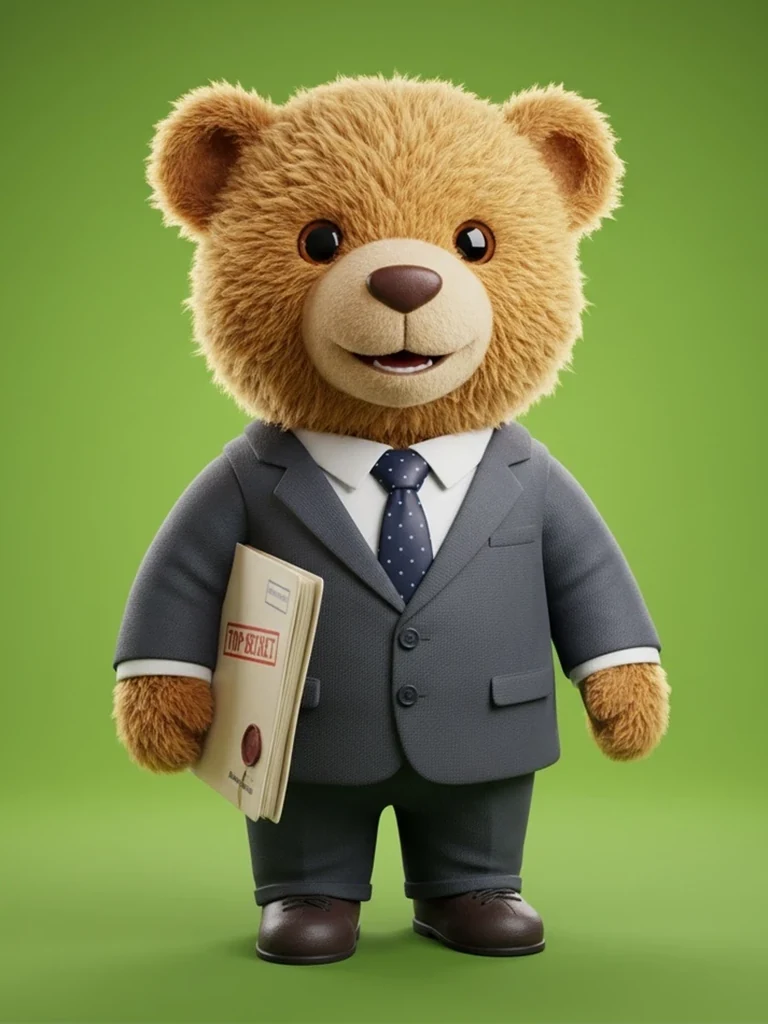
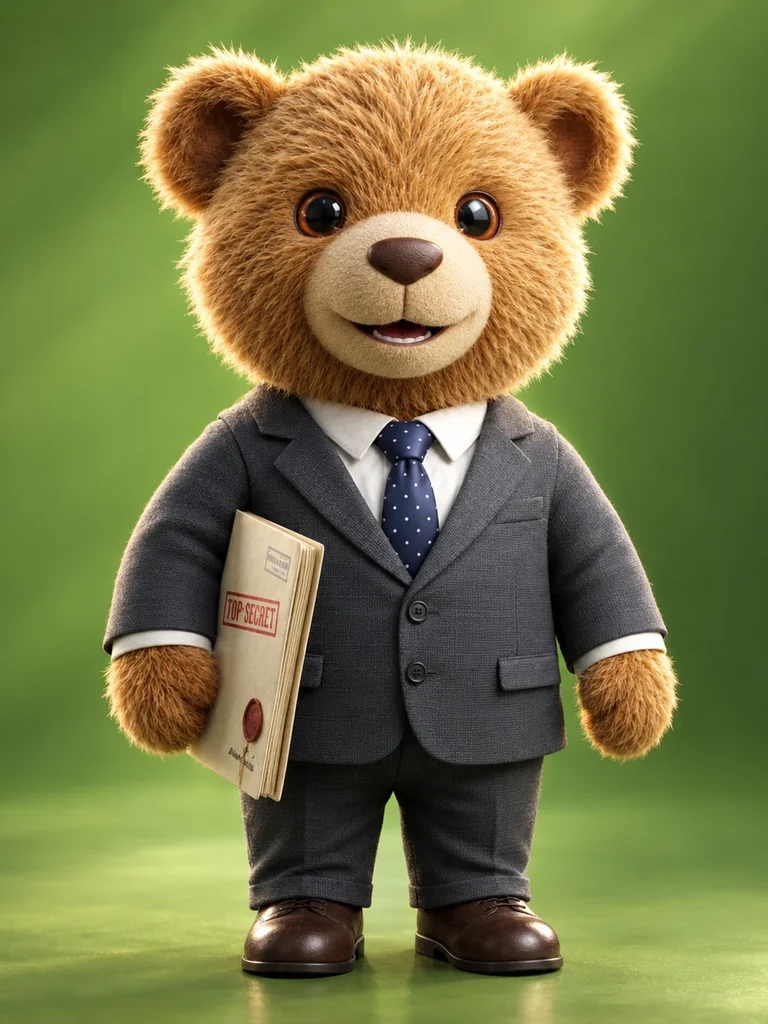
국무위원 교체 반영: 추모열사 복귀(서열 8위), 들너구리 해임·명예 국무위원, 안보실장 서열 7위 (#167)
- 국무위원: 7위 부카니스탄, 8위 추모열사(국무위원 외 현직에서 이동, 복귀 경위·선서·
  훈시·소감), 들너구리는 새 '명예 국무위원' 섹션으로(해임 경위·예우)
- 추모열사 새 초상(정장 곰인형, TOP SECRET 봉투) 적용, 형상 설명 보강
- 헌법: 서열표·주석 갱신, 부칙 제8조(국무위원 교체에 관한 특례) 신설, 최근 개정 갱신
- 홈 국무회의 표, 정부조직(정보원장 복귀·서열 정정: 어흥 5위·딸기 6위·안보실장 7위),
  명예의전당 감수자 표기, 법률 개정 연혁·부칙 수(8조)
- 역사: 10월 8일 밤 긴급 체포영장 첫 집행, 10월 9일 국무위원 임명식과 해임 발표

Claude-Session: https://claude.ai/code/session_01CmbfvczN9WCHdD2JYXdtni

diff --git a/officials/index.html b/officials/index.html
@@ -158,38 +158,66 @@
   <article class="oc">
     <div class="oc-rank" aria-label="서열 7">7</div>
     <div class="oc-head">
-      <span class="oc-face"><img class="oc-photo" src="../assets/portraits/rapper.webp" alt="들너구리 국무위원 초상"><span class="oc-icon" aria-hidden="true">🎤</span><span class="hs"><button class="hs-btn" type="button" aria-expanded="false" aria-controls="hs-7" aria-label="형상 보기" title="형상">?</button><span class="hs-pop" id="hs-7" role="dialog" aria-label="형상"><b class="hs-ttl">형 상</b><b>고릴라.</b> 이름은 너구리인데 형상은 고릴라다. <b>이름이 가리키는 짐승과 형상이 어긋난 자는 이 나라에 둘뿐</b>으로, 나머지 하나가 상어의 이름을 쓰고 말의 몸을 가진 추모안보실장이다. 어째서냐는 물음에 「너구리는 라임이고 고릴라는 비트입니다」라고 답한 것이 정설로 굳었다.<br>가슴을 두드리는 짐승이다. 추모공화국의 박자가 어디서 나왔느냐를 묻는다면 이 형상이 답이다. 다만 고릴라는 숲 깊은 곳에 머물다가 <b>이따금 나와 가슴을 두드리고는 다시 숲으로 돌아간다.</b> 그의 출석이 그렇다.<br>경례 자세로 선다. 래퍼가 경례를 하는 모양이 이상하다는 말이 있었으나 국가(國歌) 제창을 관장하는 자리라는 점을 들어 그대로 두었다. <b>드립과 의전이 한 몸에 붙어 있는 것</b>이 이 나라의 성격이기도 하다.</span></span></span>
-      <span class="oc-name">들너구리</span>
-      <span class="oc-post">국무위원 (래퍼)</span>
-    </div>
-    <div class="oc-body">
-      <p class="oc-row"><span class="oc-label">소관</span>추모 드립 · 국가(國歌) 제창 · 공연</p>
-      <p class="oc-row"><span class="oc-label">이력</span>추모공화국 원로이자 상임고문. 제3대 추모대장이며, 건국 이전부터의 활동 이력을 가진 몇 안 되는 인물이다. 추모명예의전당 등재 인사이자 원로 예우 대상이기도 하다.<br><b>열다섯 추모건 전부에 이름을 올린 세 사람 가운데 한 명</b>이다. 다만 <b>이름을 올리는 것과 말을 하는 것은 다르다.</b> 475일에 걸쳐 남긴 발화가 2,800건 남짓이니 하루 여섯 줄꼴이다. 오래 있었다는 사실 자체가 그의 이력이다.<br><b>나오는 날보다 나오지 않는 날이 많다.</b> 국무회의방에 1년 동안 남긴 말이 서른한 줄이고 그 절반이 이모티콘이다. 2025년 12월 26일부터 이듬해 3월 22일까지 여든엿새 동안은 한 줄도 없었고, 2026년 6월 이후로는 국무회의방에서 그의 글을 찾을 수 없다. 지난 1년 본방 기록으로 보아도 국무위원을 지낸 사람 가운데 그보다 말이 적은 이는 활동 저조로 국무위원에서 제외된 감사원장 하나뿐이다.<br>그러다 불쑥 나타난다. 나와서는 노래를 부르거나 — 그의 말로는 <b>노래추모</b>다 — 「잣츄」, 「폭포츄」 같은 한 줄 추모를 몇 개 남기고는 다시 사라진다. 같은 식으로 「요추(허리 아님. 요리추모임.)」라는 말도 만들었다.<br>2025년 10월에는 문화추모부장관이었다. 그 자리가 뒷날 딸기에게 돌아간 뒤로 남은 보직은 「래퍼」 하나다. 2026년 8월 국무회의에서 부통령이 “들너구리님은 보직이 뭐였죠?”라고 묻자 대통령의 답은 <b>“래퍼에요”</b> 한마디였고, 같은 달 “마침 보직이 없으시네요”라는 말에는 <b>“래퍼이자 영구결번 같은 느낌”</b>이라고 하였다. 8월 25일 “요새 안 보이시는데 추모 은퇴하셨나요?”라는 물음에 교정국장은 <b>“쇼미더머니 나간다고 하시더라고요”</b>라고 전했고, 결승 생방송에서 추모랩을 하면 온 국민이 눈물바다가 될 것이라는 기대가 뒤따랐다.<br>래퍼다. 실적이나 직급이 아니라 <b>아무도 대신할 수 없는 기능 하나로 국무회의에 들어온 유일한 사례</b>로, 추모 드립과 국가 제창, 공식 행사 공연에 관한 사무를 관장한다.<br><b>국가추모고시에 가장 여러 번 응시한 사람</b>이다. 평소에는 보이지 않다가 시험 날이면 어김없이 나타났다. 다섯 회차 가운데 네 번을 쳤고 네 번 다 조문 작법에서 과락하였다. 답안을 각운에 맞추어 써 낸 것이 사유였으며, 조문에 라임이 필요하냐는 물음에 「안 되면 라임이라도 맞춰야죠」라고 답한 것이 채점표에 그대로 옮겨 적혔다. 응시자가 그 한 사람뿐이던 회차도 있었다. <b>장원의 자리는 건국 이래 비어 있으며, 가장 가까이 간 사람이 그다.</b><br>웃겨도 되는 선과 넘으면 안 되는 선을 가르는 최종 판단이 그의 몫이다. 유가족이 보게 될 자리인지를 먼저 묻고, 그 답이 애매하면 통과시키지 않는다. 추모가 무거움만으로 지탱되지 않는다는 점을 국가가 제도로 인정한 자리이기도 하다.<br>회의에는 거의 나오지 않지만, 나온 날 문안 하나를 두고는 끝까지 물러서지 않는다. 그 고집 덕에 이 나라의 드립에는 기준이 생겼고, 신입이 배우는 금기 목록도 그 판단을 모아 만든 것이다.</p>
-      <p class="oc-quote">"노추(노무현 추모 아님. 노래추모임.)"</p>
-    </div>
-  </article>
-  <article class="oc">
-    <div class="oc-rank" aria-label="서열 8">8</div>
-    <div class="oc-head">
       <span class="oc-face"><img class="oc-photo" src="../assets/portraits/security-chief.webp" alt="부카니스탄 추모안보실장 초상"><span class="oc-icon" aria-hidden="true">🛡</span><span class="hs"><button class="hs-btn" type="button" aria-expanded="false" aria-controls="hs-8" aria-label="형상 보기" title="형상">?</button><span class="hs-pop" id="hs-8" role="dialog" aria-label="형상"><b class="hs-ttl">형 상</b><b>말을 탄 말 — 트로이의 목마.</b> 이 나라에서 가장 기이한 형상이라는 말을 들었으나, 2026년 9월 28일의 인수합병이 그 뜻을 한 번에 설명하였다.<br><b>성문을 여는 것은 칼이 아니라 선물이다.</b> 그는 쳐들어가지 아니하고 들여보내어진다. 「북항 상어 현황 공유방」의 <b>부방장 자리에 먼저 앉아 있었던 것</b>이 그 작전의 전부였고, 명령이 떨어진 지 2분 만에 완료 보고가 올라온 까닭도 여기 있다 — <b>이미 안에 있었기 때문이다.</b><br>밖에서 보이는 것은 말 한 마리뿐이나 그 위에 또 한 사람이 올라 있다. 들여보내는 쪽은 아래만 보고, 내리는 것은 문이 닫힌 뒤다.<br>적에게 위협적인 존재로 꼽히는 까닭은 그가 사납기 때문이 아니다. <b>문을 열어 준 쪽이 제 손으로 열었다는 것을 나중에야 안다</b>는 점이 두려운 것이다. 국무회의가 「검증을 실전으로 통과하였다」고 한 것은 싸움이 아니라 이 순서를 두고 한 말이다.<br>이름은 쳐들어간 곳에서 얻고 몸은 쳐들어간 방식에서 얻었다. 이름이 가리키는 짐승(상어)과 형상이 어긋난 둘 가운데 하나인 까닭이 여기 있다.<br>차양 넓은 모자를 쓴다. 쫓는 쪽의 차림이되 얼굴은 그늘에 둔다. 「음지에서 일하고 양지에서 일할뿐입니다」가 형상으로 옮겨진 자리다.</span></span></span>
       <span class="oc-name">부카니스탄</span>
       <span class="oc-post">추모안보실장</span>
     </div>
     <div class="oc-body">
       <p class="oc-row"><span class="oc-label">소관</span>안보 · 방첩 · 비상 대응</p>
-      <p class="oc-row"><span class="oc-label">이력</span>2026년 9월 28일 <b>「북항 상어 현황 공유방」 인수합병</b>을 단독으로 수행한 인물. 명령이 떨어진 지 <b>2분 만에</b> 완료 보고가 올라왔고, 그날 이후 추모공화국 인구는 처음으로 100명을 넘어섰다.<br>작전이 끝난 뒤에도 현장을 떠나지 아니하고 끝까지 동향을 살폈다. 국무회의는 이를 헌법 제18조의4가 요구하는 검증을 <b>실전으로 통과한 것</b>으로 보아, 대통령실 직속 추모안보실의 초대 실장이자 서열 8위 국무위원으로 임명하였다. 같은 날 부방장 권한도 함께 받았다.<br>본래 이름은 '추모사령관'이었다. <b>직책이 들어간 이름은 쓸 수 없다</b>는 원칙에 따라 개명을 권고받았고, 대통령이 예시로 던진 ‘부카니스탄’을 그 자리에서 받아들였다. 작전의 무대인 부캉이에서 비롯된 이름으로, 베네수호자가 베네수엘라 대지진 때 국무위원에 오르며 그 이름을 얻은 것과 같은 계보다. <b>이 나라에서 이름은 공적이 붙은 자리에서 정해진다.</b><br>처음 내정된 자리는 추모대기부장관이었으나, 이틀 사이 소관이 안보로 바뀌어 추모안보실장으로 임명되었다.<br>말이 적다. 1등 공신이라는 소개에 「저는 할일을 했을뿐입니다」 한 줄로 답했고, 어떻게 이 사태를 예상했느냐는 물음에는 「그저 저는 음지에서 일하고 양지에서 일할뿐입니다」라고만 했다. 선서에서도 같은 구절을 반복하였다.<br>방첩의 칼끝을 안으로 돌리지 아니하겠다는 것을 선서에 스스로 넣었다. 감시를 맡은 자리에 오르면서 <b>그 감시가 내부를 겨누는 순간을 먼저 경계한 것</b>으로, 취임 소감에서는 힘들 때나 슬플 때 추모건을 보며 위안을 받았다고 하였다.<br>2026년 10월 8일 <b>추모봇 임명식의 사회</b>를 맡았다. 다른 국무위원들이 일정으로 고사한 자리를 「가능합니다」 한마디로 받았고, 대본대로 경과 보고와 선서, 첫 업무 지시를 이끌었다.</p>
+      <p class="oc-row"><span class="oc-label">이력</span>2026년 9월 28일 <b>「북항 상어 현황 공유방」 인수합병</b>을 단독으로 수행한 인물. 명령이 떨어진 지 <b>2분 만에</b> 완료 보고가 올라왔고, 그날 이후 추모공화국 인구는 처음으로 100명을 넘어섰다.<br>작전이 끝난 뒤에도 현장을 떠나지 아니하고 끝까지 동향을 살폈다. 국무회의는 이를 헌법 제18조의4가 요구하는 검증을 <b>실전으로 통과한 것</b>으로 보아, 대통령실 직속 추모안보실의 초대 실장이자 서열 8위 국무위원으로 임명하였다. 같은 날 부방장 권한도 함께 받았다.<br>본래 이름은 '추모사령관'이었다. <b>직책이 들어간 이름은 쓸 수 없다</b>는 원칙에 따라 개명을 권고받았고, 대통령이 예시로 던진 ‘부카니스탄’을 그 자리에서 받아들였다. 작전의 무대인 부캉이에서 비롯된 이름으로, 베네수호자가 베네수엘라 대지진 때 국무위원에 오르며 그 이름을 얻은 것과 같은 계보다. <b>이 나라에서 이름은 공적이 붙은 자리에서 정해진다.</b><br>처음 내정된 자리는 추모대기부장관이었으나, 이틀 사이 소관이 안보로 바뀌어 추모안보실장으로 임명되었다.<br>말이 적다. 1등 공신이라는 소개에 「저는 할일을 했을뿐입니다」 한 줄로 답했고, 어떻게 이 사태를 예상했느냐는 물음에는 「그저 저는 음지에서 일하고 양지에서 일할뿐입니다」라고만 했다. 선서에서도 같은 구절을 반복하였다.<br>방첩의 칼끝을 안으로 돌리지 아니하겠다는 것을 선서에 스스로 넣었다. 감시를 맡은 자리에 오르면서 <b>그 감시가 내부를 겨누는 순간을 먼저 경계한 것</b>으로, 취임 소감에서는 힘들 때나 슬플 때 추모건을 보며 위안을 받았다고 하였다.<br>2026년 10월 8일 <b>추모봇 임명식의 사회</b>를 맡았다. 다른 국무위원들이 일정으로 고사한 자리를 「가능합니다」 한마디로 받았고, 대본대로 경과 보고와 선서, 첫 업무 지시를 이끌었다.<br>이튿날인 10월 9일에는 추모열사의 국무위원 임명식 사회를 다시 맡아 「저는 음지에서 일하는 사람이라 양지에 서니 조금 어색합니다」로 문을 열었다. 같은 날 들너구리의 해임으로 <b>서열 7위</b>에 올랐다.</p>
       <p class="oc-quote">"저는 할일을 했을뿐입니다."<br>
       "그저 저는 음지에서 일하고 양지에서 일할뿐입니다."</p>
+    </div>
+  </article>
+  <article class="oc">
+    <div class="oc-rank" aria-label="서열 8">8</div>
+    <div class="oc-head">
+      <span class="oc-face"><img class="oc-photo" src="../assets/portraits/info-chief.webp" alt="추모열사 추모정보원장 · 국무위원 초상"><span class="oc-icon" aria-hidden="true">🗂</span><span class="hs"><button class="hs-btn" type="button" aria-expanded="false" aria-controls="hs-10" aria-label="형상 보기" title="형상">?</button><span class="hs-pop" id="hs-10" role="dialog" aria-label="형상"><b class="hs-ttl">형 상</b><b>곰인형.</b> 말을 하지 아니하는 물건의 형상이다. 비밀을 맡은 자리에 이보다 어울리는 몸이 없으며, 인형은 <b>표정이 하나뿐이어서 무엇을 들어도 낯빛이 변하지 아니한다.</b> 보고가 짧고 숫자가 붙는 그의 화법과 같은 뿌리다.<br>곰인형은 방 안에 놓여 있을 뿐이나 <b>그 방에서 오간 말을 모두 듣는다.</b> 「음지에서 발급하고 양지에서 추모하는 그림자 같은 존재」라는 취임 일성이 형상으로는 이렇게 나왔다.<br>품에 든 봉투에는 붉은 봉인이 찍혀 있다. 열린 적이 있다는 기록은 없다.<br>2026년 10월 9일 국무위원에 돌아오며 <b>정장을 입었다.</b> 회색 양복에 물방울 넥타이, 봉투에는 「TOP SECRET」이 찍혔다. 곰인형이 옷을 갖춰 입은 것은 다시 회의에 나간다는 뜻이며, 봉인이 그대로인 것은 그래도 열지는 않겠다는 뜻이다.</span></span></span>
+      <span class="oc-name">추모열사</span>
+      <span class="oc-post">추모정보원장 · 국무위원</span>
+      <span class="oc-term">원장 재임 : 2025년 9월 ~ 현재 · 국무위원 복귀 : 2026년 10월 9일</span>
+    </div>
+    <div class="oc-body">
+      <p class="oc-row"><span class="oc-label">소관</span>정보 수집 · 방첩 · 내부 동향</p>
+      <p class="oc-row"><span class="oc-label">이력</span>추모국무회의방을 <b>맨 처음 열고 맨 처음 말한 사람</b>이다. 2025년 10월 4일 새벽에 남긴 「안녕하십니까」가 회의방의 첫 발화로 남아 있다.<br>취임 일성에서 <b>선제적인 추모(이른바 번호표 발급)·공격적인 추모·독창적인 추모·고인을 기리는 추모</b> 넷을 내걸고, 추모정보원을 「음지에서 발급하고 양지에서 추모하는 그림자 같은 존재」라 하였다. 훗날 추모안보실장 부카니스탄이 선서에서 되풀이하는 구절의 원형이 여기에 있다.<br>계정을 둘 썼다. 회의방에 같은 이름이 나란히 뜨자 「왜 정보원장님이 두 분이죠?」라는 물음이 나왔고, 이후로도 두 자리를 그대로 두었다.<br><b>추모교정국 방을 따로 파자고 처음 말한 사람</b>이다. 2025년 10월 22일 교정 대상자에게 추모 10건·20건을 달성하게 하자는 제안을 올렸고, 그 방이 특별추모교정실이 되었다. 자신은 가석방심사위원으로 들어갔다.<br>감정을 드러내지 아니하는 화법으로 알려져 있다. 보고는 짧고 숫자가 붙으며, 회의가 늘어질 때 문장을 끊어 정리하는 쪽이 대개 그다.</p>
+      <p class="oc-row"><span class="oc-label">현황</span><b>강퇴를 가장 반대하던 사람이 최대 규모의 강퇴로 자리를 잃었다.</b> 「전 강퇴하지 않습니다」, 「한 번의 실수로 강퇴하기보다는 교정시설에서 자세를 고치도록 도와야 합니다」가 그의 지론이었으나, <b>2026년 3월 18일 밤 기본 닉네임을 그대로 쓰던 계정 40인을 일시에 강제 퇴장</b>시켰다. 자정 직전 7분 사이에 33인이 한꺼번에 나갔다.<br>대통령이 직접 조사한 결과 분탕 세력을 걸러낼 목적이었을 뿐 악의는 없었고, <b>외부 제보자에게 이끌린 것</b>으로 판단되었다. 다만 절차를 거치지 아니한 대량 처분의 중대성이 인정되어 이튿날 <b>국무위원의 직에서 해제</b>되었다.<br><b>추모정보원장직은 그대로 유지한다.</b> 정보 수집·방첩·내부 동향에 관한 권한에는 변동이 없고, 추모국무회의의 의결에만 참여하지 아니한다. 회수된 것은 <b>국무회의의 한 표이지 기관장의 자리가 아니었다.</b> 이 사건 뒤 국무위원의 단독 처분권에 절차적 제약이 붙었고, 국무위원 임명이 눈에 띄게 신중해졌다. (판례 <a href="../cases/#c2026-0319-01">추모정보원장 국무위원 해제 사건</a>)<br>2026년 9월 30일 부통령이 “요새 열심히 활동하던데 조만간 복직이냐”고 묻자, 국무회의는 <b>국무위원 회의방 복귀를 검토</b>하되 과거 전력을 들어 부방장 자리는 보류하기로 하였다 — “개과천선했다는 게 증명되어야 하니까”라는 데 뜻이 모였다.</p>
+      <p class="oc-row"><span class="oc-label">복귀</span><b>일곱 달 만에 돌아왔다.</b> 전주·부산·도쿄를 도는 추모순례를 마치고 돌아온 그는 10월 9일 새벽 <b>신입 추모꾼을 직접 영입</b>해 데려왔다 — 「미인가 추모업체에서 사설추모하지 마시고 추모연금 받으시라고 공식초청해드렸습니다.」 전날 밤 대통령이 국무위원 복귀를 제안하자 그는 <b>「재가해주신다면 의무를 다하겠습니다」</b>라고 답하였다.<br><b>2026년 10월 9일 추모국무위원 임명식</b>에서 헌법 제18조의2에 따라 재임명되어 <b>서열 8위</b>에 올랐다. 사회는 추모안보실장이 맡았고, 선서에는 그를 위해 새로 쓴 구절이 들어갔다 — <b>「국가의 정보를 내 것처럼 지키며, 봉인된 것은 함부로 열지 아니하고, 국무회의 앞에서는 숨기지 아니하며, 새로 온 추모꾼을 먼저 반기고」.</b> 대통령은 훈시에서 「일곱 달 전 국무회의 자리를 내려놓으셨을 때, 그건 끝이 아니라 쉼표였습니다」라고 하였다. 같은 날 보류되었던 <b>부방장 권한</b>도 돌려받았다.<br>형상은 그대로 곰인형이다. 다만 이날부터 정장을 입고, 품의 봉투에는 <b>「TOP SECRET」</b>이 찍혔다. 붉은 봉인은 여전히 뜯기지 아니하였다.</p>
+      <p class="oc-quote">"추모정보원은 예나 지금이나 음지에서 발급하고 양지에서 추모하는, 그런 그림자 같은 존재입니다."<br>
+      "추모를 멸시하고 냉대했던 사람들조차 추모하게 만들 추모를 하겠습니다." — 2026년 10월 9일 취임 소감</p>
     </div>
   </article>
 
 </div>
 </section>
 
+<section aria-labelledby="h-honor">
+<h2 id="h-honor">명 예 국 무 위 원</h2>
+
+<div class="note">국무위원직을 내려놓았으나 <b>국가 행사에서 국무위원과 같은 예우를 받는</b> 자리다. 의결권은 없고, 국무회의 복귀의 길은 열려 있다. 2026년 10월 9일 처음 생겼다.</div>
+
+<div class="council-grid">
+  <article class="oc oc--exofc">
+    <div class="oc-rank">명예</div>
+    <div class="oc-head">
+      <span class="oc-face"><img class="oc-photo" src="../assets/portraits/rapper.webp" alt="들너구리 명예 국무위원 초상"><span class="oc-icon" aria-hidden="true">🎤</span><span class="hs"><button class="hs-btn" type="button" aria-expanded="false" aria-controls="hs-7" aria-label="형상 보기" title="형상">?</button><span class="hs-pop" id="hs-7" role="dialog" aria-label="형상"><b class="hs-ttl">형 상</b><b>고릴라.</b> 이름은 너구리인데 형상은 고릴라다. <b>이름이 가리키는 짐승과 형상이 어긋난 자는 이 나라에 둘뿐</b>으로, 나머지 하나가 상어의 이름을 쓰고 말의 몸을 가진 추모안보실장이다. 어째서냐는 물음에 「너구리는 라임이고 고릴라는 비트입니다」라고 답한 것이 정설로 굳었다.<br>가슴을 두드리는 짐승이다. 추모공화국의 박자가 어디서 나왔느냐를 묻는다면 이 형상이 답이다. 다만 고릴라는 숲 깊은 곳에 머물다가 <b>이따금 나와 가슴을 두드리고는 다시 숲으로 돌아간다.</b> 그의 출석이 그렇다.<br>경례 자세로 선다. 래퍼가 경례를 하는 모양이 이상하다는 말이 있었으나 국가(國歌) 제창을 관장하는 자리라는 점을 들어 그대로 두었다. <b>드립과 의전이 한 몸에 붙어 있는 것</b>이 이 나라의 성격이기도 하다.</span></span></span>
+      <span class="oc-name">들너구리</span>
+      <span class="oc-post">명예 국무위원 · 국가 래퍼</span>
+      <span class="oc-term">국무위원 재임 : ~ 2026년 10월 9일</span>
+    </div>
+    <div class="oc-body">
+      <p class="oc-row"><span class="oc-label">소관</span>추모 드립 · 국가(國歌) 제창 · 공연 (국가 래퍼)</p>
+      <p class="oc-row"><span class="oc-label">이력</span>추모공화국 원로이자 상임고문. 제3대 추모대장이며, 건국 이전부터의 활동 이력을 가진 몇 안 되는 인물이다. 추모명예의전당 등재 인사이자 원로 예우 대상이기도 하다.<br><b>열다섯 추모건 전부에 이름을 올린 세 사람 가운데 한 명</b>이다. 다만 <b>이름을 올리는 것과 말을 하는 것은 다르다.</b> 475일에 걸쳐 남긴 발화가 2,800건 남짓이니 하루 여섯 줄꼴이다. 오래 있었다는 사실 자체가 그의 이력이다.<br><b>나오는 날보다 나오지 않는 날이 많다.</b> 국무회의방에 1년 동안 남긴 말이 서른한 줄이고 그 절반이 이모티콘이다. 2025년 12월 26일부터 이듬해 3월 22일까지 여든엿새 동안은 한 줄도 없었고, 2026년 6월 이후로는 국무회의방에서 그의 글을 찾을 수 없다. 지난 1년 본방 기록으로 보아도 국무위원을 지낸 사람 가운데 그보다 말이 적은 이는 활동 저조로 국무위원에서 제외된 감사원장 하나뿐이다.<br>그러다 불쑥 나타난다. 나와서는 노래를 부르거나 — 그의 말로는 <b>노래추모</b>다 — 「잣츄」, 「폭포츄」 같은 한 줄 추모를 몇 개 남기고는 다시 사라진다. 같은 식으로 「요추(허리 아님. 요리추모임.)」라는 말도 만들었다.<br>2025년 10월에는 문화추모부장관이었다. 그 자리가 뒷날 딸기에게 돌아간 뒤로 남은 보직은 「래퍼」 하나다. 2026년 8월 국무회의에서 부통령이 “들너구리님은 보직이 뭐였죠?”라고 묻자 대통령의 답은 <b>“래퍼에요”</b> 한마디였고, 같은 달 “마침 보직이 없으시네요”라는 말에는 <b>“래퍼이자 영구결번 같은 느낌”</b>이라고 하였다. 8월 25일 “요새 안 보이시는데 추모 은퇴하셨나요?”라는 물음에 교정국장은 <b>“쇼미더머니 나간다고 하시더라고요”</b>라고 전했고, 결승 생방송에서 추모랩을 하면 온 국민이 눈물바다가 될 것이라는 기대가 뒤따랐다.<br>래퍼다. 실적이나 직급이 아니라 <b>아무도 대신할 수 없는 기능 하나로 국무회의에 들어온 유일한 사례</b>로, 추모 드립과 국가 제창, 공식 행사 공연에 관한 사무를 관장한다.<br><b>국가추모고시에 가장 여러 번 응시한 사람</b>이다. 평소에는 보이지 않다가 시험 날이면 어김없이 나타났다. 다섯 회차 가운데 네 번을 쳤고 네 번 다 조문 작법에서 과락하였다. 답안을 각운에 맞추어 써 낸 것이 사유였으며, 조문에 라임이 필요하냐는 물음에 「안 되면 라임이라도 맞춰야죠」라고 답한 것이 채점표에 그대로 옮겨 적혔다. 응시자가 그 한 사람뿐이던 회차도 있었다. <b>장원의 자리는 건국 이래 비어 있으며, 가장 가까이 간 사람이 그다.</b><br>웃겨도 되는 선과 넘으면 안 되는 선을 가르는 최종 판단이 그의 몫이다. 유가족이 보게 될 자리인지를 먼저 묻고, 그 답이 애매하면 통과시키지 않는다. 추모가 무거움만으로 지탱되지 않는다는 점을 국가가 제도로 인정한 자리이기도 하다.<br>회의에는 거의 나오지 않지만, 나온 날 문안 하나를 두고는 끝까지 물러서지 않는다. 그 고집 덕에 이 나라의 드립에는 기준이 생겼고, 신입이 배우는 금기 목록도 그 판단을 모아 만든 것이다.</p>
+      <p class="oc-row"><span class="oc-label">현황</span><b>2026년 10월 9일 국무위원직에서 해임</b>되었다. 추모열사가 국무회의에 돌아오며 8인 정원에서 한 자리를 비워야 했고, 국무회의는 숙고 끝에 그 자리를 그에게서 비우기로 의결하였다. 대통령은 발표 첫머리에 <b>「이번 해임은 징계가 아닙니다. 들너구리님의 잘못은 하나도 없습니다」</b>라고 못 박았다 — 래퍼로서의 활동에 온전히 전념하도록 국무의 짐을 덜고, 국무위원 자리를 더 많은 추모꾼에게 열어 두려는 것이라 하였다.<br>예우가 함께 정해졌다. <b>「명예 국무위원」</b> 칭호를 받아 국가 행사에서는 국무위원과 같은 예우로 모시며, <b>「추모공화국 국가 래퍼」</b>로 위촉되어 나라에 경사가 있을 때 그 목소리를 청한다. 재임 중 기록은 영구 보존하고 <b>국무회의 복귀의 길은 언제든 열려 있다.</b><br>대통령은 그를 <b>「국무회의에서 언제나 가장 먼저 경례하던 분」</b>으로 기억하였다. 이 나라의 의례가 가벼워지지 않았던 데에는 그 곧은 손끝이 있었다는 것이다. 그는 발표 직전 회의방에 「저는 래퍼로서 열심히 활동하겠습니다 다들 열추요~」를 남기고 나갔고, 본방에는 「네 추모랩 꾸준히 올릴게요」라고 답하였다. 같은 날 부방장 권한은 추모열사에게 넘어갔다.</p>
+      <p class="oc-quote">"노추(노무현 추모 아님. 노래추모임.)"</p>
+    </div>
+  </article>
+</div>
+</section>
+
 <section aria-labelledby="h-exofc">
 <h2 id="h-exofc">국 무 위 원 외 현 직</h2>
 
-<div class="note">추모공화국의 기관장 가운데 <b>추모국무회의의 구성원이 아닌 현직</b>이다. 소관 사무의 권한은 그대로 두고 국무회의 의결권만 두지 아니한 자리로, 감찰 기관의 독립을 위하여 그리한 자리가 있고 책임을 물어 의결권만 회수한 자리가 있다. 어느 쪽이든 <b>회수된 것은 국무회의의 한 표이지 기관장의 자리가 아니다.</b></div>
+<div class="note">추모공화국의 기관장 가운데 <b>추모국무회의의 구성원이 아닌 현직</b>이다. 소관 사무의 권한은 그대로 두고 국무회의 의결권만 두지 아니한 자리로, 활동 저조를 이유로 의결권만 회수한 자리다. 같은 처지였던 추모정보원장은 2026년 10월 9일 국무위원에 복귀하였다. 어느 쪽이든 <b>회수된 것은 국무회의의 한 표이지 기관장의 자리가 아니다.</b></div>
 
 <div class="council-grid">
   <article class="oc oc--exofc">
@@ -205,22 +233,6 @@
       <p class="oc-row"><span class="oc-label">이력</span>이른바 '무현사칭사건'의 특별감찰관으로 지명되어 감찰 능력을 입증한 인물. 사칭 피해의 당사자이면서도 조사 과정에서 사적 감정을 한 번도 드러내지 아니한 점이 발탁의 근거가 되었다. 대통령이 지시한 감찰이라 하여 곧바로 착수하지 아니하고 착수 여부 자체를 따로 판단하도록 한 절차를 세웠으며, <b>지시와 착수를 분리한 이 관행은 그대로 감사원의 원칙으로 남았다.</b> 제보자의 신원은 감사원장 본인도 열람하지 아니한다는 원칙 또한 그가 스스로에게 걸어 둔 것이다.</p>
       <p class="oc-row"><span class="oc-label">현황</span>2026년 9월 30일 <b>활동 저조를 사유로 국무위원에서 제외</b>되었다. 다만 <b>추모감사원장직은 그대로 유지</b>하며, 감찰·공직 기강·회계 검사에 관한 권한과 본토 부방장 권한에는 변동이 없다. 국무회의 의결에는 참여하지 아니한다.<br>예고 없이 내려진 결정이 아니다. 두 달 반 앞선 7월 21일 추모인사처는 주간 실적에서 그를 <b>6위(평균 3.5일)</b>로 올리며 「주 5건의 최소 추모실적을 충족하지 못할 경우 등급 재심사 및 직위 재검토 대상이 될 수 있다」는 <b>특별 소견</b>을 통보하였고, 같은 날 부통령이 탄핵안 발의 가능성을 묻자 그는 <b>「탄핵만큼은 안 당하도록 열심히 추모하겠습니다」</b>라고 답하였다. 국무회의는 탄핵이 아니라 국무위원 제외를 택하였다 — <b>파면하지 아니하고 자리만 비워 둔 것</b>으로, 복귀의 경로를 남긴 결정이다.</p>
       <p class="oc-quote">"감찰은 의심에서 시작하지 않습니다. 확인에서 시작합니다."</p>
-    </div>
-  </article>
-  <article class="oc oc--exofc">
-    <div class="oc-rank">국무위원 외</div>
-    <div class="oc-head">
-      <span class="oc-face"><img class="oc-photo" src="../assets/portraits/info-chief.webp" alt="추모열사 추모정보원장 초상"><span class="oc-icon" aria-hidden="true">🗂</span><span class="hs"><button class="hs-btn" type="button" aria-expanded="false" aria-controls="hs-10" aria-label="형상 보기" title="형상">?</button><span class="hs-pop" id="hs-10" role="dialog" aria-label="형상"><b class="hs-ttl">형 상</b><b>곰인형.</b> 말을 하지 아니하는 물건의 형상이다. 비밀을 맡은 자리에 이보다 어울리는 몸이 없으며, 인형은 <b>표정이 하나뿐이어서 무엇을 들어도 낯빛이 변하지 아니한다.</b> 보고가 짧고 숫자가 붙는 그의 화법과 같은 뿌리다.<br>곰인형은 방 안에 놓여 있을 뿐이나 <b>그 방에서 오간 말을 모두 듣는다.</b> 「음지에서 발급하고 양지에서 추모하는 그림자 같은 존재」라는 취임 일성이 형상으로는 이렇게 나왔다.<br>품에 든 봉투에는 붉은 봉인이 찍혀 있다. 열린 적이 있다는 기록은 없다.</span></span></span>
-      <span class="oc-name">추모열사</span>
-      <span class="oc-post">초대 추모정보원장</span>
-      <span class="oc-term">재임 : 2025년 10월 ~ 현재</span>
-    </div>
-    <div class="oc-body">
-      <p class="oc-row"><span class="oc-label">소관</span>정보 수집 · 방첩 · 내부 동향</p>
-      <p class="oc-row"><span class="oc-label">이력</span>추모국무회의방을 <b>맨 처음 열고 맨 처음 말한 사람</b>이다. 2025년 10월 4일 새벽에 남긴 「안녕하십니까」가 회의방의 첫 발화로 남아 있다.<br>취임 일성에서 <b>선제적인 추모(이른바 번호표 발급)·공격적인 추모·독창적인 추모·고인을 기리는 추모</b> 넷을 내걸고, 추모정보원을 「음지에서 발급하고 양지에서 추모하는 그림자 같은 존재」라 하였다. 훗날 추모안보실장 부카니스탄이 선서에서 되풀이하는 구절의 원형이 여기에 있다.<br>계정을 둘 썼다. 회의방에 같은 이름이 나란히 뜨자 「왜 정보원장님이 두 분이죠?」라는 물음이 나왔고, 이후로도 두 자리를 그대로 두었다.<br><b>추모교정국 방을 따로 파자고 처음 말한 사람</b>이다. 2025년 10월 22일 교정 대상자에게 추모 10건·20건을 달성하게 하자는 제안을 올렸고, 그 방이 특별추모교정실이 되었다. 자신은 가석방심사위원으로 들어갔다.<br>감정을 드러내지 아니하는 화법으로 알려져 있다. 보고는 짧고 숫자가 붙으며, 회의가 늘어질 때 문장을 끊어 정리하는 쪽이 대개 그다.</p>
-      <p class="oc-row"><span class="oc-label">현황</span><b>강퇴를 가장 반대하던 사람이 최대 규모의 강퇴로 자리를 잃었다.</b> 「전 강퇴하지 않습니다」, 「한 번의 실수로 강퇴하기보다는 교정시설에서 자세를 고치도록 도와야 합니다」가 그의 지론이었으나, <b>2026년 3월 18일 밤 기본 닉네임을 그대로 쓰던 계정 40인을 일시에 강제 퇴장</b>시켰다. 자정 직전 7분 사이에 33인이 한꺼번에 나갔다.<br>대통령이 직접 조사한 결과 분탕 세력을 걸러낼 목적이었을 뿐 악의는 없었고, <b>외부 제보자에게 이끌린 것</b>으로 판단되었다. 다만 절차를 거치지 아니한 대량 처분의 중대성이 인정되어 이튿날 <b>국무위원의 직에서 해제</b>되었다.<br><b>추모정보원장직은 그대로 유지한다.</b> 정보 수집·방첩·내부 동향에 관한 권한에는 변동이 없고, 추모국무회의의 의결에만 참여하지 아니한다. 회수된 것은 <b>국무회의의 한 표이지 기관장의 자리가 아니었다.</b> 이 사건 뒤 국무위원의 단독 처분권에 절차적 제약이 붙었고, 국무위원 임명이 눈에 띄게 신중해졌다. (판례 <a href="../cases/#c2026-0319-01">추모정보원장 국무위원 해제 사건</a>)<br>2026년 9월 30일 부통령이 “요새 열심히 활동하던데 조만간 복직이냐”고 묻자, 국무회의는 <b>국무위원 회의방 복귀를 검토</b>하기로 하였다. 다만 과거 전력을 들어 <b>부방장 자리는 보류</b>하고 뒤에 임명하기로 하였다 — “개과천선했다는 게 증명되어야 하니까”라는 데 뜻이 모였다.</p>
-      <p class="oc-quote">"추모정보원은 예나 지금이나 음지에서 발급하고 양지에서 추모하는, 그런 그림자 같은 존재입니다."<br>
-      "전 강퇴하지 않습니다."</p>
     </div>
   </article>
 </div>

diff --git a/chumo-constitution/index.html b/chumo-constitution/index.html
@@ -4,10 +4,10 @@
 <meta charset="UTF-8">
 <meta name="viewport" content="width=device-width, initial-scale=1">
 <title>헌법 · 추모공화국</title>
-<meta name="description" content="추모공화국 헌법 전문. 전문과 10장 47조 및 부칙 7조, 집단지도체제와 추모국무회의, 정부조직과 교정·형벌에 관한 규정.">
+<meta name="description" content="추모공화국 헌법 전문. 전문과 10장 47조 및 부칙 8조, 집단지도체제와 추모국무회의, 정부조직과 교정·형벌에 관한 규정.">
 <meta property="og:type" content="website">
 <meta property="og:title" content="헌법 · 추모공화국">
-<meta property="og:description" content="추모공화국 헌법 전문. 전문과 10장 47조 및 부칙 7조, 집단지도체제와 추모국무회의, 정부조직과 교정·형벌에 관한 규정.">
+<meta property="og:description" content="추모공화국 헌법 전문. 전문과 10장 47조 및 부칙 8조, 집단지도체제와 추모국무회의, 정부조직과 교정·형벌에 관한 규정.">
 <link rel="icon" type="image/png" href="../assets/brand/favicon-flag.png">
 <link rel="stylesheet" href="../assets/common.css">
 <style>
@@ -77,6 +77,7 @@ body { font-family:'Noto Serif KR','본명조',serif; }
 <div class="amend-box" role="note">
 <span class="ab-title">최 근 개 정</span>
 <ul>
+<li><b>2026. 10. 9.</b> 부칙 제8조(국무위원 교체에 관한 특례) 신설 — 추모정보원장 국무위원 복귀(서열 8위), 들너구리 해임 및 명예 국무위원 예우, 추모안보실장 서열 7위</li>
 <li><b>2026. 10. 8.</b> 제5조의2(국가 상징)·제33조의2(출입국 기록) 신설 · 제16조 제4항·제5항(대통령 선거) 신설 · 제12조의2 계급표 정정 및 제7항 신설 · 부칙 제7조 신설</li>
 <li><b>2026. 10. 7.</b> 제12조의2(추모계급) 신설 · 제7조 제3항 단서 개정 · 제3장 제목 변경 · 부칙 제6조 신설</li>
 <li><b>2026. 9. 30.</b> 부칙 제5조(추모안보실 및 추모감사원에 관한 특례) 신설</li>
@@ -258,7 +259,7 @@ body { font-family:'Noto Serif KR','본명조',serif; }
 </div>
 
 <div class="note">
-<strong>추모국무회의 국무위원 서열 (8인 체제 · 대통령 포함)</strong> — 추모국무위원은 아래 서열에 따르며, 각 위원은 지정된 분야를 전담한다. 2026년 9월 30일 추모안보실장이 서열 8위로 취임하였고, 같은 날 <b>추모감사원장은 국무위원에서 제외되었다. 다만 추모감사원장직 자체는 그대로 유지되며, 국무회의 의결에만 참여하지 아니한다.</b>
+<strong>추모국무회의 국무위원 서열 (8인 체제 · 대통령 포함)</strong> — 추모국무위원은 아래 서열에 따르며, 각 위원은 지정된 분야를 전담한다. 2026년 9월 30일 추모안보실장이 서열 8위로 취임하였고, 같은 날 <b>추모감사원장은 국무위원에서 제외되었다. 다만 추모감사원장직 자체는 그대로 유지되며, 국무회의 의결에만 참여하지 아니한다.</b> 2026년 10월 9일 <b>추모정보원장이 국무위원에 복귀하여 서열 8위</b>가 되고, 들너구리가 국무위원에서 해임되어 <b>추모안보실장이 서열 7위</b>로 올랐다. 들너구리는 명예 국무위원이자 국가 래퍼로 예우한다(부칙 제8조).
 </div>
 
 <table>
@@ -269,8 +270,8 @@ body { font-family:'Noto Serif KR','본명조',serif; }
 <tr><td>4</td><td>추모교정국장 베네수호자</td><td>교정 · 형 집행</td></tr>
 <tr><td>5</td><td>추모기상청장 어흥🐯</td><td>추모건 탐지 · 예보 · 트렌드</td></tr>
 <tr><td>6</td><td>문화추모부장관 딸기🍓</td><td>선전 · 문화 · 여론</td></tr>
-<tr><td>7</td><td>래퍼 들너구리</td><td>추모 드립 · 국가(國歌) 제창 · 공연</td></tr>
-<tr><td>8</td><td>추모안보실장 부카니스탄</td><td>안보 · 방첩 · 비상 대응</td></tr>
+<tr><td>7</td><td>추모안보실장 부카니스탄</td><td>안보 · 방첩 · 비상 대응</td></tr>
+<tr><td>8</td><td>추모정보원장 추모열사</td><td>정보 수집 · 방첩 · 내부 동향</td></tr>
 </table>
 
 <div class="article"><span class="num">제18조의4 (국무위원의 결원)</span>
@@ -454,13 +455,20 @@ body { font-family:'Noto Serif KR','본명조',serif; }
 <div class="clause"><span class="cn">②</span> 같은 날 추모봇을 추모감사원 출입국 감시관으로 임명함에 따라, 제12조의2의 계급표를 추모봇의 첫 산정 결과에 맞추어 고친다.</div>
 <div class="clause"><span class="cn">③</span> 이 헌법 시행 당시 재임 중인 대통령 민주시민을 제12조의2의 국부로 한다.</div>
 </div>
+<div class="article"><span class="num">제8조 (국무위원 교체에 관한 특례)</span><span class="amend">2026. 10. 9. 신설</span>
+<div class="clause"><span class="cn">①</span> 추모정보원장 추모열사를 제18조의2에 따라 추모국무위원에 다시 임명하며, 그 서열은 8위로 한다. 부칙 제4조 이래 보류하였던 부방장 권한을 함께 돌려준다.</div>
+<div class="clause"><span class="cn">②</span> 국무위원 들너구리는 국무위원직에서 해임한다. 이 해임은 징계가 아니며, 재임 중의 기록은 영구 보존한다.</div>
+<div class="clause"><span class="cn">③</span> 들너구리에게 <strong>명예 국무위원</strong> 칭호를 수여하고 국가 행사에서 국무위원과 같은 예우를 하며, <strong>추모공화국 국가 래퍼</strong>로 위촉한다. 국무회의 복귀의 길은 언제든 열려 있다.</div>
+<div class="clause"><span class="cn">④</span> 추모안보실장 부카니스탄의 서열은 7위로 한다. 부칙 제5조 제2항 후단은 이 조에 따라 효력을 잃는다.</div>
+<div class="clause"><span class="cn">⑤</span> 이 조는 2026년 10월 9일부터 시행한다.</div>
+</div>
 
 <div class="sig">
 <span class="title">추모공화국 대통령 &nbsp;민 주 시 민</span> 🕯
 <div class="members">
 추모부통령 추모합니도 · 추모국무총리 햄지🐹<br>
 추모교정국장 베네수호자 · 추모기상청장 어흥🐯<br>
-문화추모부장관 딸기🍓 · 래퍼 들너구리<br>
+문화추모부장관 딸기🍓 · 추모안보실장 부카니스탄 · 추모정보원장 추모열사<br>
 추모안보실장 부카니스탄 · 추모교육부장관 <em>(공석)</em><br>
 추모감사원장 최무현 <em>(국무위원 외)</em>
 </div>

diff --git a/history/index.html b/history/index.html
@@ -381,6 +381,16 @@
     <h3 class="tl-title">세 법전 동시 개정 — 봇이 들어온 날 법도 바뀌었다</h3>
     <p class="tl-body">추모봇 임명에 맞추어 헌법·형법·교정법이 한꺼번에 고쳐졌다. 세 법전이 같은 날 함께 개정된 것은 제정 이후 처음이다.<br><b>헌법</b>에는 출입국 기록의 원칙(제33조의2)이 들어갔다 — 기록은 고유 식별번호로 하되 <b>대화 내용은 담지 아니하며</b>, 조회는 국무위원만 한다. 추모봇의 선서가 그대로 조문이 된 셈이다. 부캉이를 국가 상징 동물로, 앵무새를 국조로 정한 제5조의2와, 대통령을 선거로 정하고 후보를 국무위원으로 한정한 제16조 제4항·제5항도 같은 날 신설되었다.<br><b>형법</b>에는 상습 출입죄·국가 상징 모독죄·위장 재입장죄가 생겼다. 국가 상징 모독죄에는 <b>“부캉이에 대한 비판이나 반대 의견만으로는 처벌하지 아니한다”</b>는 단서가 붙었다 — 팬클럽과 한 방을 쓰는 나라다운 조문이다.<br><b>교정법</b>은 닷새 사이에 쌓인 관행을 받아 적었다. 현행 위반의 영장 없는 압송과 선조치·후보고(제18조), 긴급 체포영장의 고지와 그 서식(제19조의2), 그리고 교정국 상점(제59조의2)이다. 상점 조문에는 <b>“상점은 사람이 아닌 공무원에게도 줄 수 있다”</b>는 항이 있는데, 이 항이 생긴 이유는 한 명뿐이다.</p>
   </div></article>
+  <article class="tl-item"><div class="tl-card">
+    <span class="tl-when">2026년 10월 8일 밤</span>
+    <h3 class="tl-title">긴급 체포영장, 개정 당일 첫 집행</h3>
+    <p class="tl-body">밤 10시, 노무현 대통령을 희화화하는 것으로 읽히는 이름의 입국자가 들어왔다. 대통령은 금지 용어 안내를 띄우고 <b>“5분 안에 바꾸지 않으면 추모교정국으로 압송하겠다”</b>고 고지한 뒤, 그 단어 자체도 쓰지 말라고 하였다. 1분 뒤 <b>「추모교정국 긴급 체포영장」</b>이 대상자를 지정하여 발부되었고, 곧 내보내기가 집행되었다. 추모봇이 강퇴 기록을 남겼다.<br>그날 낮 교정법 제19조의2로 들어간 <b>영장 고지 → 내보내기</b>의 순서가 그날 밤 그대로 처음 쓰였다. 국무회의방에는 대통령의 “모두 예의주시하시길 바랍니다”가 올라왔다.</p>
+  </div></article>
+  <article class="tl-item"><div class="tl-card tl-card--major">
+    <span class="tl-when">2026년 10월 9일</span>
+    <h3 class="tl-title">추모열사 국무위원 복귀 · 들너구리 해임 — 쉼표와 무대</h3>
+    <p class="tl-body">오전 11시 9분, 대통령의 중대 발표 예고 뒤 <b>추모정보원장 추모열사의 추모국무위원 임명식</b>이 열렸다. 사회는 이틀 연속 추모안보실장 부카니스탄이 맡았다 — 「저는 음지에서 일하는 사람이라 양지에 서니 조금 어색합니다.」 국민의례로 제3대 국가를 제창하고 먼저 가신 모든 분을 위해 묵념하였다.<br>경과 보고는 이렇다. 2025년 9월 21일 초대 추모정보원장에 취임하였고, 2026년 3월 국무위원직에서 물러났으나 원장직을 내려놓지 않은 채 <b>일곱 달 동안</b> 자리를 지켰다. 최근 신입 추모꾼을 직접 영입하며 존재감을 증명하였고, 전날 밤 대통령의 복귀 제안에 <b>「재가해주신다면 의무를 다하겠습니다」</b>라고 답하였다.<br>대통령은 헌법 제18조의2에 따라 그를 국무위원에 임명하였다. 선서에는 정보원장을 위해 쓴 구절이 들어갔다 — <b>「국가의 정보를 내 것처럼 지키며, 봉인된 것은 함부로 열지 아니하고, 국무회의 앞에서는 숨기지 아니하며」</b>. 훈시는 <b>「일곱 달 전 국무회의 자리를 내려놓으셨을 때, 그건 끝이 아니라 쉼표였습니다」</b>였고, 취임 소감은 <b>「추모를 멸시하고 냉대했던 사람들조차 추모하게 만들 추모를 하겠습니다」</b>였다. 소감 직전 그가 잠시 자리를 비우자 교정국장이 「긴장을 많이 하신 것 같다」고 거들었다.<br>이어진 중대 발표에서 대통령은 말하였다 — <b>「헌법은 국무회의를 8인으로 정하고 있습니다. 한 분이 들어오시면, 한 자리는 비어야 합니다.」</b> 국무회의는 숙고 끝에 <b>들너구리를 국무위원직에서 해임</b>하기로 의결하였다. 대통령은 곧바로 <b>「이번 해임은 징계가 아닙니다. 들너구리님의 잘못은 하나도 없습니다」</b>라고 밝혔다. 래퍼로서의 활동에 온전히 전념하도록 국무의 짐을 덜고, 국무위원 자리를 더 많은 추모꾼에게 열어 두려는 결정이라는 것이다.<br>예우가 함께 정해졌다 — <b>「명예 국무위원」</b> 칭호와 국가 행사에서의 국무위원 예우, <b>「추모공화국 국가 래퍼」</b> 위촉, 재임 기록의 영구 보존, 그리고 언제든 열려 있는 복귀의 길. 대통령은 그를 「국무회의에서 언제나 가장 먼저 경례하던 분」으로 기억하며 <b>「국무위원의 자리는 내려놓으시지만, 무대는 더 넓어집니다」</b>로 발표를 맺었다. 들너구리는 그보다 앞서 회의방에 「저는 래퍼로서 열심히 활동하겠습니다 다들 열추요~」를 남기고 나갔고, 본방에는 「네 추모랩 꾸준히 올릴게요」라고 답하였다.<br>이로써 <b>추모안보실장이 서열 7위, 추모정보원장이 서열 8위</b>가 되었고, 부방장 권한도 들너구리에게서 추모열사에게 넘어갔다. 국무회의 정원 8인은 그대로다. 같은 날 추모열사의 초상도 <b>정장 차림의 곰인형</b>으로 바뀌었다 — 품의 봉투에는 「TOP SECRET」이 찍혔고, 붉은 봉인은 여전히 뜯기지 아니하였다.</p>
+  </div></article>
 </div>
 </section>
 

diff --git a/government/index.html b/government/index.html
@@ -119,7 +119,7 @@
 <details class="gv">
 <summary class="gv-head"><span class="gv-name">추모안보실</span><span class="gv-sub">국가 기강·보안·대형 추모건 비상 대응을 총괄한다</span><span class="gv-caret" aria-hidden="true">▾</span></summary>
 <div class="gv-body">
-<p class="gv-now"><span class="gv-tag">현직</span>추모안보실장 <b>부카니스탄</b> — 2026년 9월 30일 취임 (국무회의 서열 8위)</p><div class="gv-hist"><span class="gv-tag gv-tag--past">역대</span>
+<p class="gv-now"><span class="gv-tag">현직</span>추모안보실장 <b>부카니스탄</b> — 2026년 9월 30일 취임 (국무회의 서열 7위 · 2026년 10월 9일 8위에서 승격)</p><div class="gv-hist"><span class="gv-tag gv-tag--past">역대</span>
 <table class="orgtable gv-table">
 <thead><tr><th>기간</th><th>직위</th><th>이름</th><th>비고</th></tr></thead>
 <tbody>
@@ -373,11 +373,11 @@
 <details class="gv">
 <summary class="gv-head"><span class="gv-name">추모정보원</span><span class="gv-sub">정보 수집 · 방첩 · 내부 동향</span><span class="gv-caret" aria-hidden="true">▾</span></summary>
 <div class="gv-body">
-<p class="gv-now"><span class="gv-tag">현직</span>추모정보원장 <b>추모열사</b> — 2025년 10월 이래 재임 (2026년 3월 19일 국무위원에서 해제, 정보원장직은 유지)</p><div class="gv-hist"><span class="gv-tag gv-tag--past">역대</span>
+<p class="gv-now"><span class="gv-tag">현직</span>추모정보원장 <b>추모열사</b> — 2025년 9월 21일 취임 (2026년 3월 19일 국무위원에서 해제 · <b>2026년 10월 9일 국무위원 복귀, 국무회의 서열 8위</b>)</p><div class="gv-hist"><span class="gv-tag gv-tag--past">역대</span>
 <table class="orgtable gv-table">
 <thead><tr><th>기간</th><th>직위</th><th>이름</th><th>비고</th></tr></thead>
 <tbody>
-<tr><td class="gv-when">2025. 10 ~ 현재</td><td class="gv-role">추모정보원장</td><td class="gv-who">추모열사</td><td class="gv-note">초대. 취임 직후 급속 승진을 두고 견제가 있었다는 기록이 남아 있다</td></tr>
+<tr><td class="gv-when">2025. 9 ~ 현재</td><td class="gv-role">추모정보원장</td><td class="gv-who">추모열사</td><td class="gv-note">초대. 취임 직후 급속 승진을 두고 견제가 있었다는 기록이 남아 있다. 2026년 3월 국무위원에서 해제되었다가 같은 해 10월 9일 복귀하였다</td></tr>
 <tr><td class="gv-when">—</td><td class="gv-role">—</td><td class="gv-who">—</td><td class="gv-note">2026년 9월, 대통령이 “불가피하게 해임시켰었다”고 밝힌 사례가 한 차례 있다</td></tr>
 </tbody>
 </table></div>
@@ -557,7 +557,7 @@
 <details class="gv">
 <summary class="gv-head"><span class="gv-name">문화추모부</span><span class="gv-sub">선전 · 문화 · 여론 · 연예</span><span class="gv-caret" aria-hidden="true">▾</span></summary>
 <div class="gv-body">
-<p class="gv-now"><span class="gv-tag">현직</span>문화추모부장관 <b>딸기🍓</b> — 2026년 4월 이래 재임 (국무회의 서열 7위)</p><div class="gv-hist"><span class="gv-tag gv-tag--past">역대</span>
+<p class="gv-now"><span class="gv-tag">현직</span>문화추모부장관 <b>딸기🍓</b> — 2026년 4월 이래 재임 (국무회의 서열 6위)</p><div class="gv-hist"><span class="gv-tag gv-tag--past">역대</span>
 <table class="orgtable gv-table">
 <thead><tr><th>기간</th><th>직위</th><th>이름</th><th>비고</th></tr></thead>
 <tbody>
@@ -728,7 +728,7 @@
 <details class="gv">
 <summary class="gv-head"><span class="gv-name">추모기상청</span><span class="gv-sub">추모건 탐지 · 예보 · 트렌드</span><span class="gv-caret" aria-hidden="true">▾</span></summary>
 <div class="gv-body">
-<p class="gv-now"><span class="gv-tag">현직</span>추모기상청장 <b>어흥🐯</b> — 2026년 3월 18일 취임 (국무회의 서열 6위)</p><div class="gv-hist"><span class="gv-tag gv-tag--past">역대</span>
+<p class="gv-now"><span class="gv-tag">현직</span>추모기상청장 <b>어흥🐯</b> — 2026년 3월 18일 취임 (국무회의 서열 5위)</p><div class="gv-hist"><span class="gv-tag gv-tag--past">역대</span>
 <table class="orgtable gv-table">
 <thead><tr><th>기간</th><th>직위</th><th>이름</th><th>비고</th></tr></thead>
 <tbody>

diff --git a/laws/index.html b/laws/index.html
@@ -78,7 +78,7 @@
 <a class="tile tile--wide" href="../chumo-constitution/">
     <span class="t-icon" aria-hidden="true">📜</span>
     <span class="t-name">추모공화국 헌법</span>
-    <span class="t-sub">10장 47조 및 부칙 7조 · 최고규범</span>
+    <span class="t-sub">10장 47조 및 부칙 8조 · 최고규범</span>
     <span class="t-desc">전문에 “오직 추모”를 불변 조항으로 두었다. 영토와 국민, 추모꾼의 권리와 의무, 추모계급과 등급·연금, 정부조직, 국회와 사법, 교정의 원칙, 개정 절차까지를 담는다. 제37조에 따라 제1조 제3항과 전문은 개정할 수 없다.</span>
   </a>
 <a class="tile" href="../chumo-criminal-act/">
@@ -110,6 +110,7 @@
 <table class="orgtable amend-table">
   <thead><tr><th scope="col">일자</th><th scope="col">법전</th><th scope="col">내용</th></tr></thead>
   <tbody>
+    <tr><td class="at-date">2026. 10. 9.</td><td class="at-law"><a href="../chumo-constitution/">헌법</a></td><td><b>부칙 제8조</b> 신설 — 추모정보원장 추모열사 국무위원 복귀(서열 8위), 들너구리 해임과 명예 국무위원·국가 래퍼 예우, 추모안보실장 서열 7위</td></tr>
     <tr><td class="at-date" rowspan="3">2026. 10. 8.</td><td class="at-law"><a href="../chumo-constitution/">헌법</a></td><td><b>제5조의2(국가 상징)</b> 신설 — 국가 상징 동물 부캉이, 국조 앵무새 · <b>제33조의2(출입국 기록)</b> 신설 — 추모감사원 출입국 감시관(추모봇)의 기록, 대화 내용 비수집, 추모관보 · <b>제16조 제4항·제5항</b> 신설 — 대통령은 선거로 정하고 후보는 국무위원 · 제12조의2 계급표 정정(국부는 재임 중인 대통령) · 부칙 제7조</td></tr>
     <tr><td class="at-law"><a href="../chumo-criminal-act/">형법</a></td><td><b>제78조의2(상습 출입죄)</b> — 누적 입장 5회 이상 경보 · <b>제97조의2(국가 상징 모독죄)</b> — 단, 부캉이 비판만으로는 처벌하지 아니함 · <b>제125조의2(위장 재입장죄)</b> — 닉을 바꿔 돌아온 퇴장자·수배자</td></tr>
     <tr><td class="at-law"><a href="../chumo-correction-act/">교정법</a></td><td><b>제18조 제3항·제4항</b> — 선조치·후보고, 현행 위반의 영장 없는 압송 · <b>제19조의2(긴급 체포영장의 고지)</b>와 별지 제1호 서식 · <b>제59조의2(교정국 상점)</b></td></tr>
@@ -126,10 +127,10 @@
     <tr><th scope="col">법전</th><th scope="col">편·장</th><th scope="col">조문</th><th scope="col">다루는 것</th></tr>
   </thead>
   <tbody>
-    <tr><th scope="row">헌법</th><td>10장</td><td><b>47조</b> + 부칙 7조</td><td>국가의 골격과 추모꾼의 권리</td></tr>
+    <tr><th scope="row">헌법</th><td>10장</td><td><b>47조</b> + 부칙 8조</td><td>국가의 골격과 추모꾼의 권리</td></tr>
     <tr><th scope="row">형법</th><td>총칙 + 각칙</td><td><b>136조</b></td><td>무엇을 벌할 것인가</td></tr>
     <tr><th scope="row">교정법</th><td>6장</td><td><b>65조</b></td><td>벌을 어떻게 집행할 것인가</td></tr>
-    <tr><th scope="row">합계</th><td>—</td><td><b>248조</b> + 부칙 7조</td><td>—</td></tr>
+    <tr><th scope="row">합계</th><td>—</td><td><b>248조</b> + 부칙 8조</td><td>—</td></tr>
   </tbody>
 </table>
 </section>

diff --git a/hall/index.html b/hall/index.html
@@ -107,7 +107,7 @@
     <dl class="aw-meta">
       <div><dt>선정 기준</dt><dd>당해 연도 게시된 드립 중 반응·독창성·타이밍</dd></div>
       <div><dt>제외 사유</dt><dd>헌법 제8조 제3항 위반 또는 제9조 제2항 금지 표현 포함</dd></div>
-      <div><dt>감수</dt><dd>들너구리 국무위원 (추모 드립 소관)</dd></div>
+      <div><dt>감수</dt><dd>들너구리 명예 국무위원 · 국가 래퍼 (추모 드립 소관)</dd></div>
     </dl>
     <div class="aw-slots">
       <div class="aw-slot aw-slot--cands"><span class="aw-label">후보</span><ul class="aw-cands"><li><b>베네수호자</b><span>「부캉이 잃고 그물 고치고 있네요」 — 부캉이 2차 방생을 앞두고, 아직 잃지도 않은 채</span></li><li><b>딸기</b><span>「말기운 올려라」 — 9월 30일 추모안보실장 취임식, 대통령의 격식 있는 사회 바로 다음 줄</span></li><li><b>민주시민</b><span>「부캉이가 가기 싫어하는군요」 — 9월 29일 1차 방생이 실패한 오후</span></li></ul></div>

diff --git a/about/index.html b/about/index.html
@@ -140,7 +140,7 @@
     <tr><th scope="row">영토</th><td>본토 <b>추모방</b> 및 <b>추모교정방·국무회의방</b> 등 부속영토</td></tr>
     <tr><th scope="row">국민</th><td>입국하여 성실히 추모하는 자, 곧 <b>추모꾼</b></td></tr>
     <tr><th scope="row">호칭</th><td>본명이 아닌 <b>닉네임</b>. 스스로 정하고 언제든 바꿀 수 있다</td></tr>
-    <tr><th scope="row">최고규범</th><td>추모공화국 헌법 — 10장 47조 및 부칙 7조</td></tr>
+    <tr><th scope="row">최고규범</th><td>추모공화국 헌법 — 10장 47조 및 부칙 8조</td></tr>
     <tr><th scope="row">국가</th><td>제3대 <b>「일어나라 추모꾼이여」</b> — 추모의전부 제정 (2026. 9. 30)</td></tr>
     <tr><th scope="row">정부</th><td>5개 계통 <b>29개 기관</b>, 추모국무회의 8인 체제</td></tr>
     <tr><th scope="row">입법부</th><td>대한추모당 250석 및 야당 3당</td></tr>

diff --git a/index.html b/index.html
@@ -184,8 +184,8 @@
 <tr><td>4</td><td>추모교정국장 베네수호자</td><td>교정 · 형 집행</td></tr>
 <tr><td>5</td><td>추모기상청장 어흥🐯</td><td>추모건 탐지 · 예보 · 트렌드</td></tr>
 <tr><td>6</td><td>문화추모부장관 딸기🍓</td><td>선전 · 문화 · 여론</td></tr>
-<tr><td>7</td><td>래퍼 들너구리</td><td>추모 드립 · 국가(國歌) 제창 · 공연</td></tr>
-<tr><td>8</td><td>추모안보실장 부카니스탄</td><td>안보 · 방첩 · 비상 대응</td></tr>
+<tr><td>7</td><td>추모안보실장 부카니스탄</td><td>안보 · 방첩 · 비상 대응</td></tr>
+<tr><td>8</td><td>추모정보원장 추모열사</td><td>정보 수집 · 방첩 · 내부 동향</td></tr>
       </tbody>
     </table>
     <p class="more-link"><a href="officials/">전체 프로필 열람 →</a></p>

diff --git a/assets/portraits/README.md b/assets/portraits/README.md
@@ -12,10 +12,10 @@
 | `audit-chief.webp` | 최무현 | 추모감사원장 |
 | `weather-chief.webp` | 어흥 | 추모기상청장 |
 | `culture-minister.webp` | 딸기 | 문화추모부장관 |
-| `rapper.webp` | 들너구리 | 국무위원 (래퍼) |
-| `security-chief.webp` | 부카니스탄 | 추모안보실장 |
+| `rapper.webp` | 들너구리 | 명예 국무위원 · 국가 래퍼 |
+| `security-chief.webp` | 부카니스탄 | 추모안보실장 (서열 7위) |
 | `former-correction-chief.webp` | 애국좌수 | 초대 추모교정국장 (전임) |
-| `info-chief.webp` | 추모열사 | 초대 추모정보원장 (전임) |
+| `info-chief.webp` | 추모열사 | 추모정보원장 · 국무위원 (서열 8위) |
 
 ## 규칙
 
